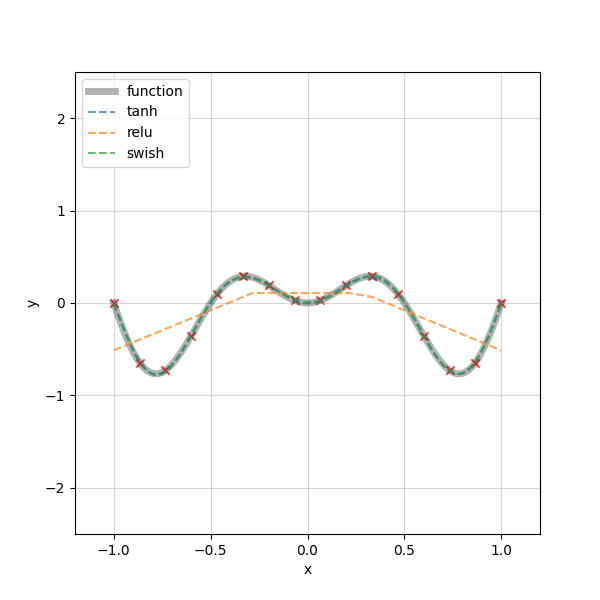
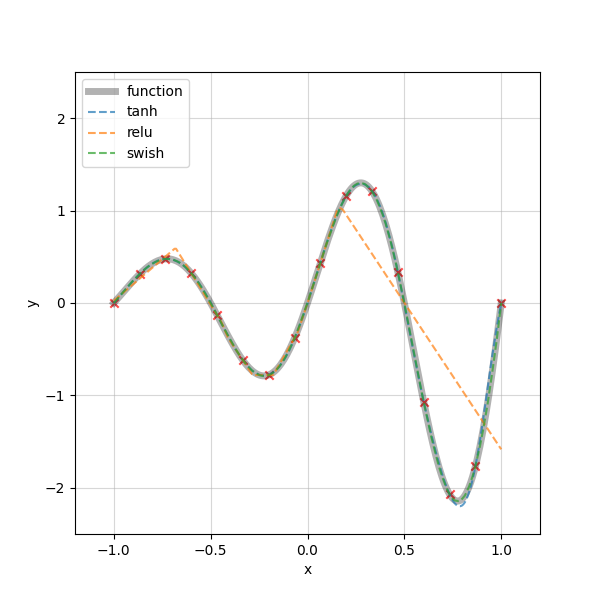
fix bug

Changed region(s): [[0.18, 0.3, 0.84, 0.84], [0.21, 0.45, 0.24, 0.48]]

diff --git a/00_tf2/main.py b/00_tf2/main.py
@@ -16,7 +16,7 @@ def main():
     config_gpu(gpu_flg = 1)
 
     # problem setup
-    p_id = 2
+    p_id = 1
     xmin = -1.
     xmax =  1.
     nx   = 2 ** 8
@@ -27,14 +27,12 @@ def main():
     f_out  = 1
     f_hid  = 5
     depth  = 3
-    b_init = "zeros"
     lr     = 5e-4
     opt    = "Adam"
     f_scl  = "minmax"
     d_type = "float32"
     r_seed = 1234
     n_epc  = int(5e4)
-    n_epc  = int(1e4)
     n_btc  = -1
     c_tol  = 1e-6
 
@@ -59,6 +57,7 @@ def main():
 
     # define, train, and infer with tanh model
     w_init = "Glorot"
+    b_init = "zeros"
     act = "tanh"
     model_tanh = DNN(
         x_train, y_train, 
@@ -74,6 +73,7 @@ def main():
 
     # relu model
     w_init = "He"
+    b_init = "zeros"
     act = "relu"
     model_relu = DNN(
         x_train, y_train, 
@@ -88,6 +88,7 @@ def main():
 
     # swish model
     w_init = "He"
+    b_init = "zeros"
     act = "swish"
     model_swish = DNN(
         x_train, y_train, 

diff --git a/00_tf2/functions.py b/00_tf2/functions.py
@@ -15,20 +15,18 @@ def func0_tf(x):
     return y
 
 def func1(x):
-    y = .6 * np.sin(np.pi * x) \
-        + .4 * np.sin(4. * np.pi * x)
+    y = .7 * np.sin(np.pi * x) \
+        + .3 * np.sin(4. * np.pi * x)
     return y
 def func1_tf(x):
-    y = .6 * tf.sin(np.pi * x) \
-        + .4 * tf.sin(4. * np.pi * x)
+    y = .7 * tf.sin(np.pi * x) \
+        + .3 * tf.sin(4. * np.pi * x)
     return y
 
 def func2(x):
-    y = x * np.cos(2. * np.pi * x)
-    # y = np.exp(x) * np.sin(2. * np.pi * x)
+    y = np.exp(x) * np.sin(2. * np.pi * x)
     return y
 def func2_tf(x):
-    y = x * tf.cos(2. * np.pi * x)
-    # y = tf.exp(x) * tf.sin(2. * np.pi * x)
+    y = tf.exp(x) * tf.sin(2. * np.pi * x)
     return y
 
